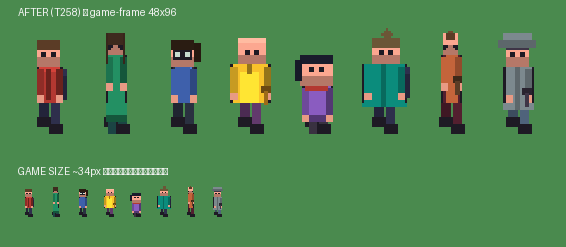
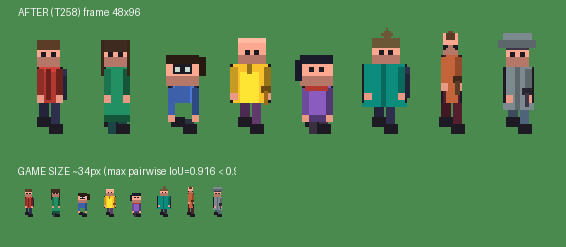
T258b [pixel-artist]: 角色游戏尺寸两两剪影门禁(char_game_size_check)+轴重排使 max IoU 0.916<0.95; batch_id 落盘 assets/batch_id.json; -- code/frontend/tools/char_game_size_check.py

diff --git a/code/frontend/tools/char_game_size_check.py b/code/frontend/tools/char_game_size_check.py
@@ -1,0 +1,48 @@
+#!/usr/bin/env python3
+# -*- coding: utf-8 -*-
+"""char_game_size_check.py — 角色「游戏尺寸」两两剪影可辨性（T258 续作）
+
+判据在**真实观看尺寸**下成立（非放大镜下）：把 8 角色帧缩放到目标显示高度（默认 34px，
+与游戏内 ~0.46 缩放一致），逐对算剪影 **IoU**；全部 < 阈值（默认 0.95）→ PASS。
+输出 `char_game_size.json`（含 gate_pass）。
+用法：python3 frontend/tools/char_game_size_check.py [--height 34] [--threshold 0.95]
+"""
+import argparse, json, os, sys
+from PIL import Image
+HERE=os.path.dirname(os.path.abspath(__file__)); ROOT=os.path.dirname(HERE)
+CDIR=os.path.join(ROOT,"assets","generated","hand","chars")
+if not os.path.isdir(CDIR): CDIR=os.path.join(ROOT,"assets","hand","chars")
+NAMES=["villager_red","villager_green","villager_blue","villager_yellow","villager_purple","villager_teal","villager_orange","villager_slate"]
+
+def mask_at(name, H):
+    im=Image.open(os.path.join(CDIR,name+".png")).convert("RGBA").crop((0,0,48,96))  # 第1帧
+    w=max(1,round(48*H/96)); z=im.resize((w,H),Image.NEAREST); px=z.load()
+    return [[1 if px[x,y][3]>0 else 0 for x in range(w)] for y in range(H)]
+
+def iou(a,b):
+    inter=union=0
+    for y in range(len(a)):
+        for x in range(len(a[0])):
+            pa,pb=a[y][x],b[y][x]
+            if pa or pb:
+                union+=1
+                if pa and pb: inter+=1
+    return inter/union if union else 1.0
+
+def main():
+    ap=argparse.ArgumentParser(); ap.add_argument("--height",type=int,default=34); ap.add_argument("--threshold",type=float,default=0.95)
+    a=ap.parse_args()
+    masks={n:mask_at(n,a.height) for n in NAMES}
+    pairs=[]; mx=0
+    for i in range(len(NAMES)):
+        for j in range(i+1,len(NAMES)):
+            v=round(iou(masks[NAMES[i]],masks[NAMES[j]]),3); mx=max(mx,v)
+            pairs.append({"a":NAMES[i],"b":NAMES[j],"iou":v,"ok":v<a.threshold})
+    bad=[p for p in pairs if not p["ok"]]
+    out={"target_height":a.height,"threshold":a.threshold,"pairs":len(pairs),"max_iou":mx,
+         "failed":bad,"gate_pass":{"pass":len(bad)==0,"max_iou":mx}}
+    json.dump(out, open(os.path.join(HERE,"char_game_size.json"),"w"), ensure_ascii=False, indent=2)
+    print("game-size(%dpx) gate_pass: %s | max_iou=%.3f | fails=%d/%d"%(a.height,out["gate_pass"]["pass"],mx,len(bad),len(pairs)))
+    for p in bad: print("  FAIL",p["a"],p["b"],p["iou"])
+
+if __name__=="__main__": main()
